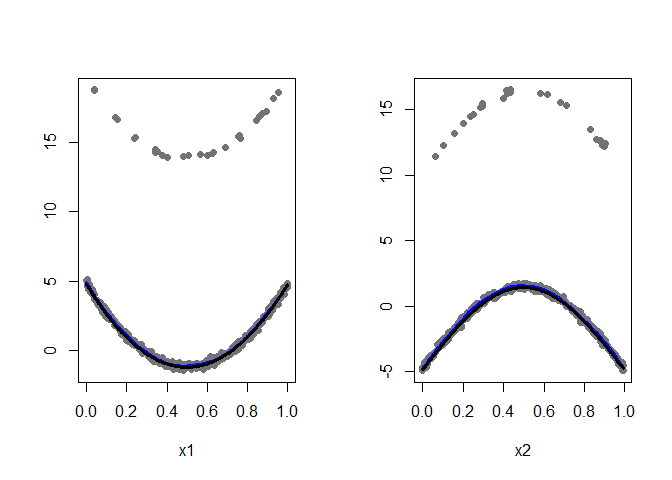
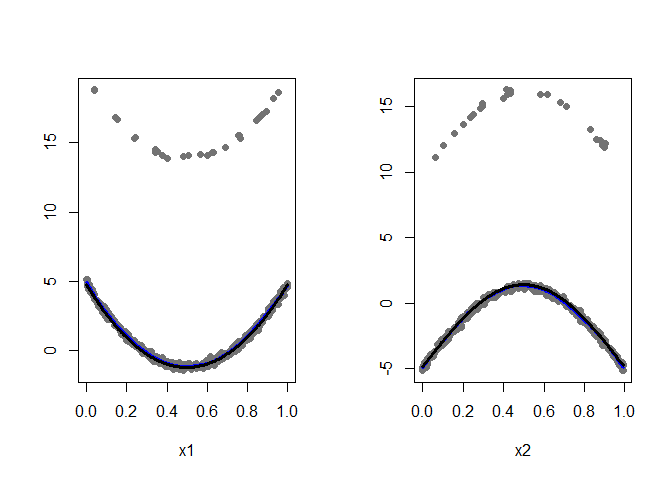
New contamination setting

diff --git a/README.md b/README.md
@@ -46,7 +46,7 @@ bandw <- rep(0.1,2)
 Besides, for this estimation procedure, a different measure for approximating the integrals can be used. In this case, we will consider the following:
 
 ``` r
-set.seed(9090)
+set.seed(8090)
 nQ <- 200
 Qmeasure <- matrix(rbeta(nQ*2,2,2), nQ, 2)
 ```
@@ -66,7 +66,7 @@ robust.fit$prediction
 ```
 
     ##            [,1]     [,2]
-    ## [1,] -0.2039209 1.237501
+    ## [1,] -0.1797703 1.011623
 
 ``` r
 c(function.g1(point[1]), function.g2(point[2]))
@@ -113,8 +113,8 @@ function.g2.prime <- function(x2) 2*pi^2*cos(pi*x2)
 robust.fit2$prediction.derivate
 ```
 
-    ##          [,1]      [,2]
-    ## [1,] 9.550217 -6.595888
+    ##         [,1]      [,2]
+    ## [1,] 9.93239 -6.707469
 
 ``` r
 c(function.g1.prime(point[1]), function.g2.prime(point[2]))
